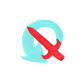
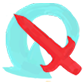
trying to make cool smoke puffs work

diff --git a/theThief/src/main/java/thiefmod/vfx/ShadowstepSingleSmokeEffect.java b/theThief/src/main/java/thiefmod/vfx/ShadowstepSingleSmokeEffect.java
@@ -1,0 +1,72 @@
+package thiefmod.vfx;
+
+import com.badlogic.gdx.Gdx;
+import com.badlogic.gdx.graphics.Color;
+import com.badlogic.gdx.graphics.g2d.SpriteBatch;
+import com.badlogic.gdx.graphics.g2d.TextureAtlas;
+import com.badlogic.gdx.math.Interpolation;
+import com.badlogic.gdx.math.MathUtils;
+import com.megacrit.cardcrawl.core.Settings;
+import com.megacrit.cardcrawl.helpers.ImageMaster;
+import com.megacrit.cardcrawl.vfx.AbstractGameEffect;
+
+
+public class ShadowstepSingleSmokeEffect extends AbstractGameEffect {
+    private float x;
+    private float y;
+    private float vY;
+    private float aV;
+    private float startDur;
+    private float targetScale;
+    private TextureAtlas.AtlasRegion img;
+
+    public ShadowstepSingleSmokeEffect(float x, float y) {
+        this.color = new Color(0.0F, 0.0F, 0.0F, 1.0F);
+        this.color.r = 0.2F;
+        this.color.g = 0.2F;
+        this.color.b = 0.2F;
+        if (MathUtils.randomBoolean()) {
+            this.img = ImageMaster.EXHAUST_L;
+            this.duration = MathUtils.random(2.0F, 2.5F);
+            this.targetScale = MathUtils.random(0.8F, 2.2F);
+        } else {
+            this.img = ImageMaster.EXHAUST_S;
+            this.duration = MathUtils.random(2.0F, 2.5F);
+            this.targetScale = MathUtils.random(0.8F, 1.2F);
+        }
+
+        this.startDur = this.duration;
+        this.x = x + MathUtils.random(-180.0F * Settings.scale, 150.0F * Settings.scale) - (float) this.img.packedWidth / 2.0F;
+        this.y = y + MathUtils.random(-240.0F * Settings.scale, 150.0F * Settings.scale) - (float) this.img.packedHeight / 2.0F;
+        this.scale = 0.01F;
+        this.rotation = MathUtils.random(360.0F);
+        this.aV = MathUtils.random(-50.0F, 50.0F);
+        this.vY = MathUtils.random(1.0F * Settings.scale, 3.0F * Settings.scale);
+    }
+
+    public void update() {
+        this.duration -= Gdx.graphics.getDeltaTime();
+        if (this.duration < 0.0F) {
+            this.isDone = true;
+        }
+
+        this.x += MathUtils.random(-2.0F * Settings.scale, 2.0F * Settings.scale);
+        this.x += this.vY;
+        this.y += MathUtils.random(-2.0F * Settings.scale, 2.0F * Settings.scale);
+        this.y += this.vY;
+        this.rotation += this.aV * Gdx.graphics.getDeltaTime();
+        this.scale = Interpolation.exp10Out.apply(0.01F, this.targetScale, 1.0F - this.duration / this.startDur);
+        if (this.duration < 0.33F) {
+            this.color.a = this.duration * 3.0F;
+        }
+
+    }
+
+    public void render(SpriteBatch sb) {
+        sb.setColor(this.color);
+        sb.draw(this.img, this.x, this.y, (float) this.img.packedWidth / 2.0F, (float) this.img.packedHeight / 2.0F, (float) this.img.packedWidth, (float) this.img.packedHeight, this.scale, this.scale, this.rotation);
+    }
+
+    public void dispose() {
+    }
+}

diff --git a/theThief/src/main/java/thiefmod/powers/Common/ShadowstepPower.java b/theThief/src/main/java/thiefmod/powers/Common/ShadowstepPower.java
@@ -14,7 +14,6 @@ import com.megacrit.cardcrawl.core.CardCrawlGame;
 import com.megacrit.cardcrawl.dungeons.AbstractDungeon;
 import com.megacrit.cardcrawl.localization.PowerStrings;
 import com.megacrit.cardcrawl.powers.AbstractPower;
-import com.megacrit.cardcrawl.vfx.DarkSmokePuffEffect;
 import thiefmod.ThiefMod;
 import thiefmod.patches.character.ThiefCardTags;
 import thiefmod.powers.Unique.GhastlyEssencePower;
@@ -22,6 +21,7 @@ import thiefmod.powers.Unique.ShadowMasteryPower;
 import thiefmod.relics.ShadowBoots;
 import thiefmod.relics.ShadowMask;
 import thiefmod.util.TextureLoader;
+import thiefmod.vfx.ShadowstepSmokeBoofEffect;
 
 import static com.megacrit.cardcrawl.dungeons.AbstractDungeon.actionManager;
 
@@ -37,8 +37,8 @@ public class ShadowstepPower extends AbstractPower implements OnReceivePowerPowe
     public static final String NAME = powerStrings.NAME;
     public static final String[] DESCRIPTIONS = powerStrings.DESCRIPTIONS;
 
-    private static final Texture tex84 = TextureLoader.getTexture("thiefmodAssets/images/powers/84/RefundCardCostPower.png");
-    private static final Texture tex32 = TextureLoader.getTexture("thiefmodAssets/images/powers/32/RefundCardCostPower.png");
+    private static final Texture tex84 = TextureLoader.getTexture("thiefmodAssets/images/powers/84/ShadowstepPower.png");
+    private static final Texture tex32 = TextureLoader.getTexture("thiefmodAssets/images/powers/32/ShadowstepPower.png");
 
 
     public ShadowstepPower(final AbstractCreature owner, final AbstractCreature source, final int amount) {
@@ -73,6 +73,8 @@ public class ShadowstepPower extends AbstractPower implements OnReceivePowerPowe
 
     @Override
     public void onInitialApplication() {
+        AbstractDungeon.effectsQueue.add(new ShadowstepSmokeBoofEffect(AbstractDungeon.player.drawX, AbstractDungeon.player.drawY));
+
         actionManager.addToBottom(new ApplyPowerAction(owner, source,
                 new BackstabPower(owner, source, amount), amount));
 
@@ -82,7 +84,7 @@ public class ShadowstepPower extends AbstractPower implements OnReceivePowerPowe
     public boolean onReceivePower(AbstractPower power, AbstractCreature target, AbstractCreature source) {
 
         if (power.ID.equals(ID)) {
-            AbstractDungeon.effectsQueue.add(new DarkSmokePuffEffect(target.hb_x, target.hb_y));
+            AbstractDungeon.effectsQueue.add(new ShadowstepSmokeBoofEffect(AbstractDungeon.player.drawX, AbstractDungeon.player.drawY));
             actionManager.addToBottom(new ApplyPowerAction(owner, source,
                     new BackstabPower(owner, source, amount), amount));
             return true;

diff --git a/theThief/src/main/java/thiefmod/vfx/ShadowstepSmokeBoofEffect.java b/theThief/src/main/java/thiefmod/vfx/ShadowstepSmokeBoofEffect.java
@@ -1,0 +1,35 @@
+package thiefmod.vfx;
+
+import com.badlogic.gdx.Gdx;
+import com.megacrit.cardcrawl.core.CardCrawlGame;
+import com.megacrit.cardcrawl.dungeons.AbstractDungeon;
+import com.megacrit.cardcrawl.vfx.combat.SmokeBombEffect;
+
+
+public class ShadowstepSmokeBoofEffect extends SmokeBombEffect {
+
+    protected float x;
+    protected float y;
+
+    public ShadowstepSmokeBoofEffect(float x, float y) {
+        super(x, y);
+
+        this.x = x;
+        this.y = y;
+    }
+
+    @Override
+    public void update() {
+        if (duration == 0.2f) {
+            CardCrawlGame.sound.play("ATTACK_WHIFF_2");
+            for (int i = 0; i < 30; ++i) {
+                AbstractDungeon.effectsQueue.add(new ShadowstepSingleSmokeEffect(x, y));
+            }
+        }
+        duration -= Gdx.graphics.getDeltaTime();
+        if (duration < 0.0f) {
+            CardCrawlGame.sound.play("APPEAR");
+            isDone = true;
+        }
+    }
+}
